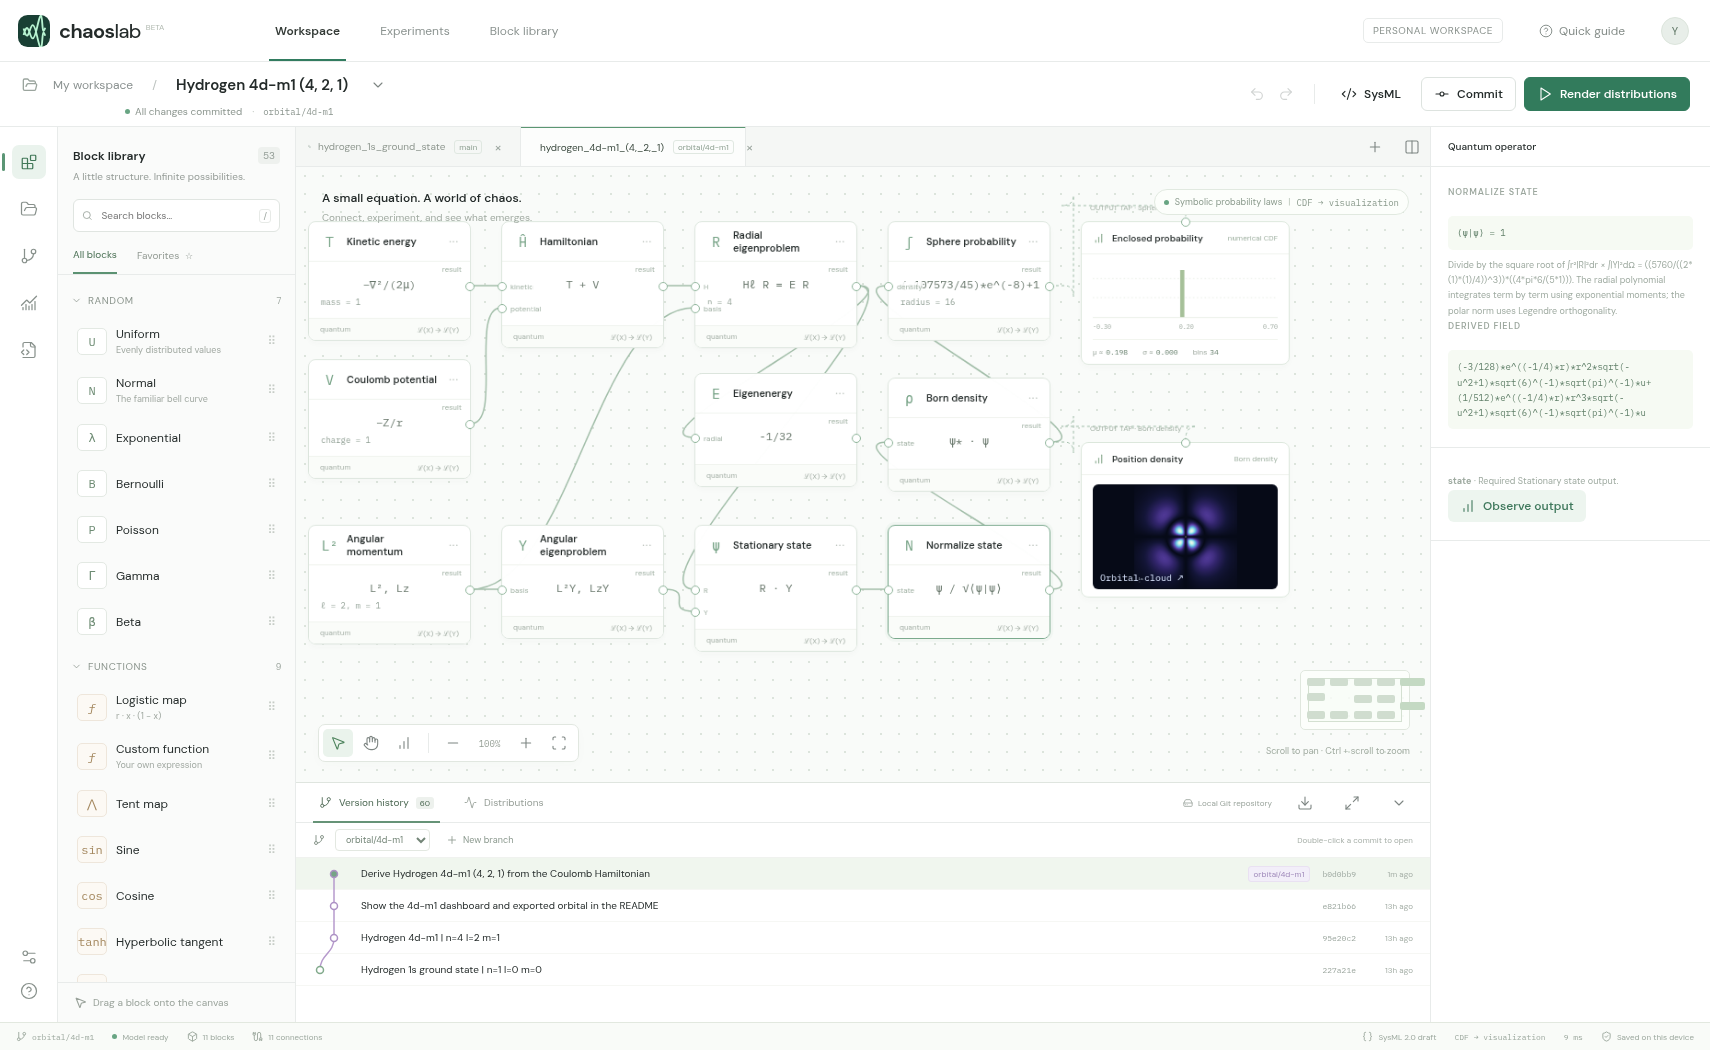
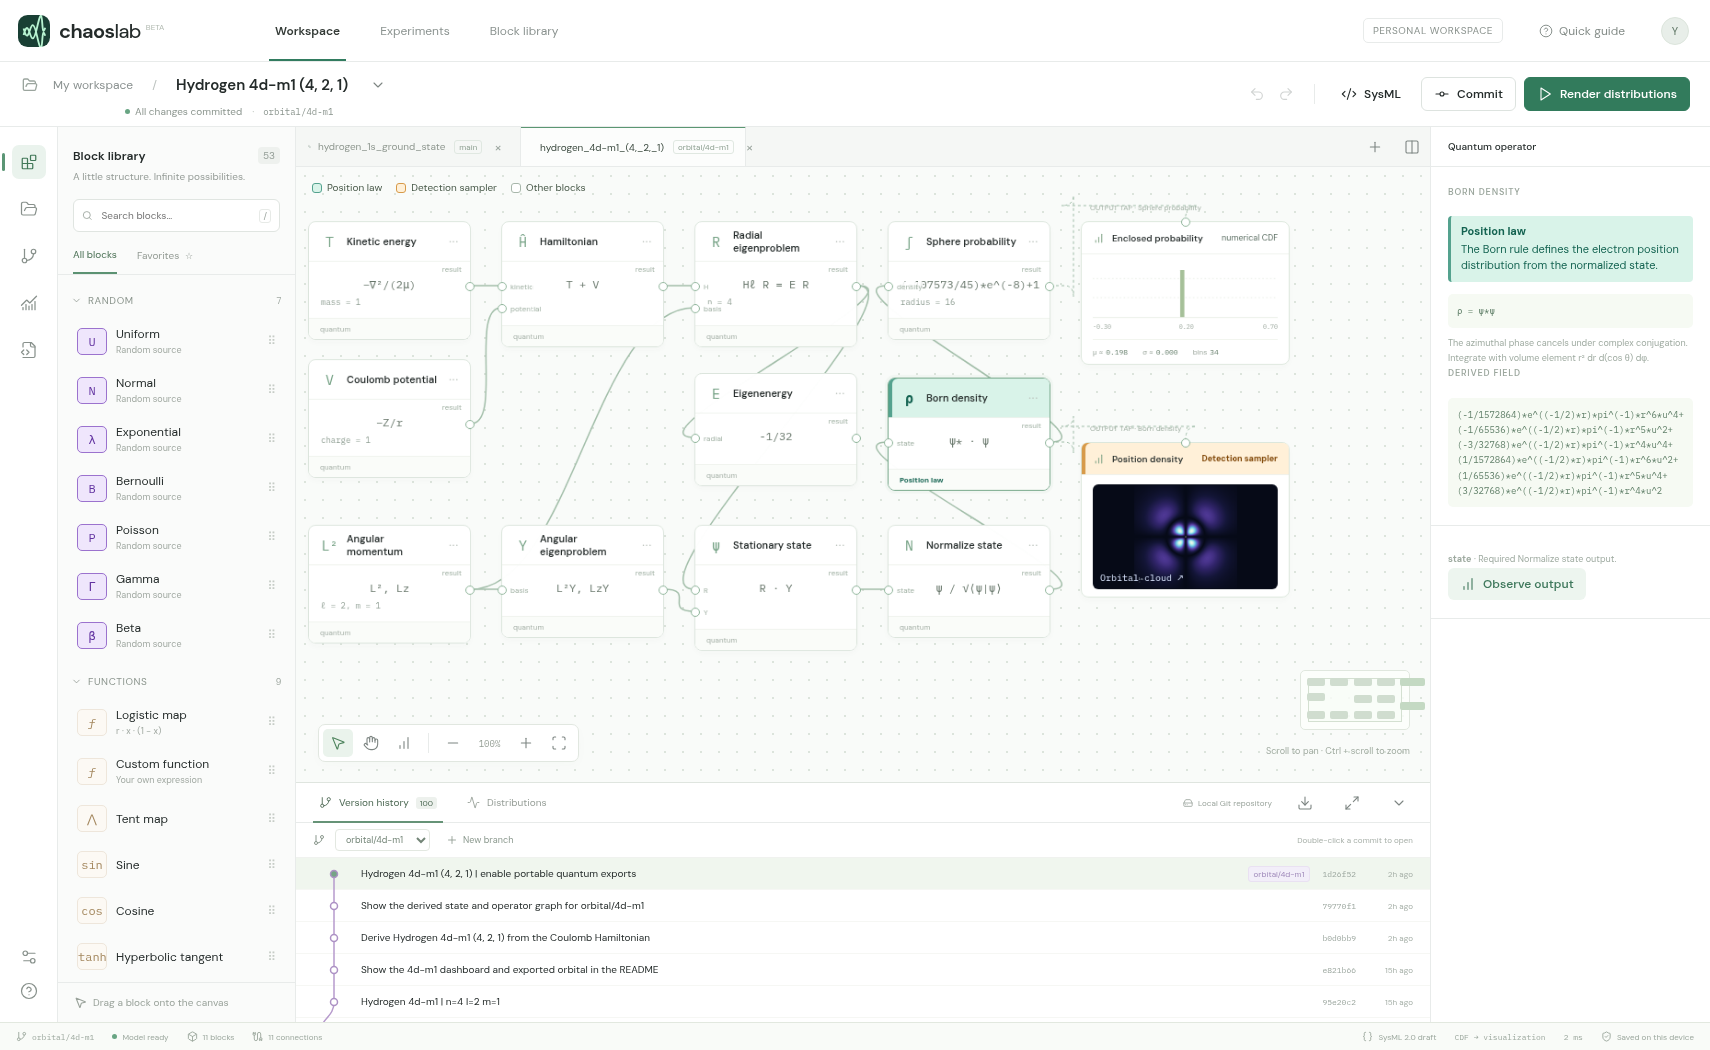
Hydrogen 4d-m1 (4, 2, 1) | identify the position law and detection sampler

diff --git a/studio.py b/studio.py
@@ -10,7 +10,7 @@ import tempfile
 import webbrowser
 
 ROOT = Path(__file__).resolve().parent
-STUDIO_REV = "1cc30c5632f1fe1f79a11ab6730f82c36a6c01e4"
+STUDIO_REV = "8657d6ecd3aa33a5a28f43219d5d6bfb8aa3edcc"
 STUDIO_REPO = "https://github.com/wa200508/chaos_lab.git"
 
 

diff --git a/README.md b/README.md
@@ -6,6 +6,8 @@ Open **Version history** in Chaos Lab to explore the 20 hydrogen designs in this
 
 The connected Hamiltonian and eigenstate solvers give $E=-1/32$ Hartree for this state.
 
+On the canvas, teal **Position law** marks where the Born rule defines the distribution of electron positions. Amber **Detection sampler** marks the tap that draws positions for the projected cloud. The central slice evaluates the density directly.
+
 ![Chaos Lab dashboard with the 4d model, m = 1, open in version history](dashboard.png)
 
 Radial nodes: 1. Polar nodes: 1. Plot half-width: 32 Bohr radii.
